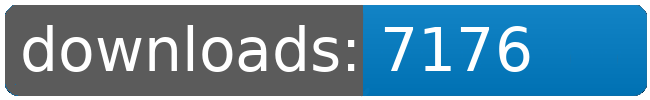
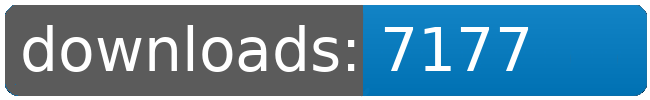
dl log written

Changed region(s): [[0.7692, 0.24, 0.8308, 0.72]]

diff --git a/README.md b/README.md
@@ -21,8 +21,8 @@
 		<td>7388</td>
 		<td>7399</td>
 		<td>7412</td>
-		<td>7428</td>
-		<td>+ 16</td>
+		<td>7429</td>
+		<td>+ 17</td>
 	</tr>
 	<tr>
 		<td>Factory.Outlets</td>
@@ -76,8 +76,8 @@
 		<td>7128</td>
 		<td>7143</td>
 		<td>7157</td>
-		<td>7176</td>
-		<td>+ 19</td>
+		<td>7177</td>
+		<td>+ 20</td>
 	</tr>
 	<tr>
 		<td>Sheragi.Rebirth.Redux</td>
@@ -120,8 +120,8 @@
 		<td></td>
 		<td></td>
 		<td></td>
-		<td>54569</td>
-		<td>137</td>
+		<td>54571</td>
+		<td>139</td>
 	</tr>
 </table>
 </sub></sup>
@@ -157,8 +157,8 @@
 		<td>7388</td>
 		<td>7399</td>
 		<td>7412</td>
-		<td>7428</td>
-		<td>+ 16</td>
+		<td>7429</td>
+		<td>+ 17</td>
 	</tr>
 	<tr>
 		<td>Louise.Conglomerate.Shipyards</td>
@@ -168,8 +168,8 @@
 		<td>7128</td>
 		<td>7143</td>
 		<td>7157</td>
-		<td>7176</td>
-		<td>+ 19</td>
+		<td>7177</td>
+		<td>+ 20</td>
 	</tr>
 	<tr>
 		<td>Korunak.Defense.Drones</td>
@@ -245,8 +245,8 @@
 		<td></td>
 		<td></td>
 		<td></td>
-		<td>54569</td>
-		<td>137</td>
+		<td>54571</td>
+		<td>139</td>
 	</tr>
 </table>
 </sub></sup>
